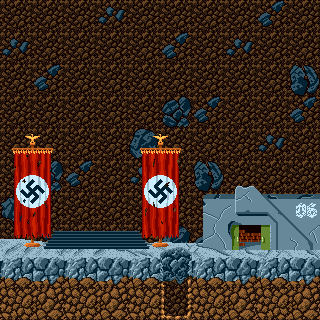
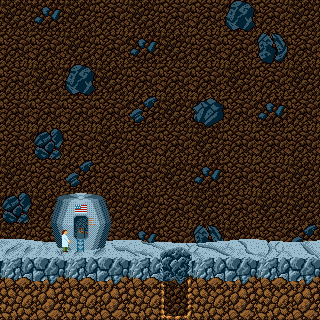
use proper western base tiles

diff --git a/src/base.c b/src/base.c
@@ -90,21 +90,21 @@ static const tBase s_pBases[BASE_ID_COUNT] = {
 	[BASE_ID_WESTERN] = {
 		.uwTileDepth = BASE_TILE_DEPTH_WESTERN,
 		.pTilePattern = {
-			43, 43, 43, 43, 43, 43, 43, 43, 43, 43,
-			44, 43, 43, 43, 43, 45, 43, 44, 43, 43,
-			43, 45, 43, 43, 43, 43, 43, 43, 43, 49,
-			43, 43, 43, 43, 43, 48, 45, 43, 43, 45,
-			 0,  1, 43, 43,  2,  1, 43, 43, 44, 43,
-			 3,  4, 45, 43,  5,  6, 49,  7, 43, 43,
-			12, 13, 43, 43, 14, 15, 16, 17, 18, 19,
-			20, 21, 22, 23, 24, 25, 26, 27, 28, 29,
+			43, 44, 43, 43, 43, 43, 43, 47, 43, 43,
+			43, 43, 43, 43, 44, 43, 43, 43, 49, 43,
+			43, 43, 47, 43, 43, 43, 43, 43, 43, 43,
+			43, 43, 43, 43, 45, 43, 46, 43, 44, 43,
+			43, 48, 43, 43, 43, 43, 43, 43, 43, 43,
+			43, 43, 45, 43, 43, 43, 44, 43, 43, 43,
+			48,  0,  1,  2, 43, 43, 43, 43, 43, 43,
+			23, 24, 25, 26, 27, 28, 29, 30, 31, 32,
 			34, 35, 36, 37, 38, 33, 39, 40, 41, 42,
 			54, 55, 54, 55, 54, 48, 54, 55, 54, 55,
 		},
 		.sRectRestock = {
-			.uwX1 = 8 * TILE_SIZE,
+			.uwX1 = 3 * TILE_SIZE,
 			.uwY1 = (BASE_TILE_DEPTH_WESTERN + 7) * TILE_SIZE,
-			.uwX2 = 10 * TILE_SIZE,
+			.uwX2 = 4 * TILE_SIZE,
 			.uwY2 = (BASE_TILE_DEPTH_WESTERN + 8) * TILE_SIZE
 		},
 		.cbProcess = 0,
